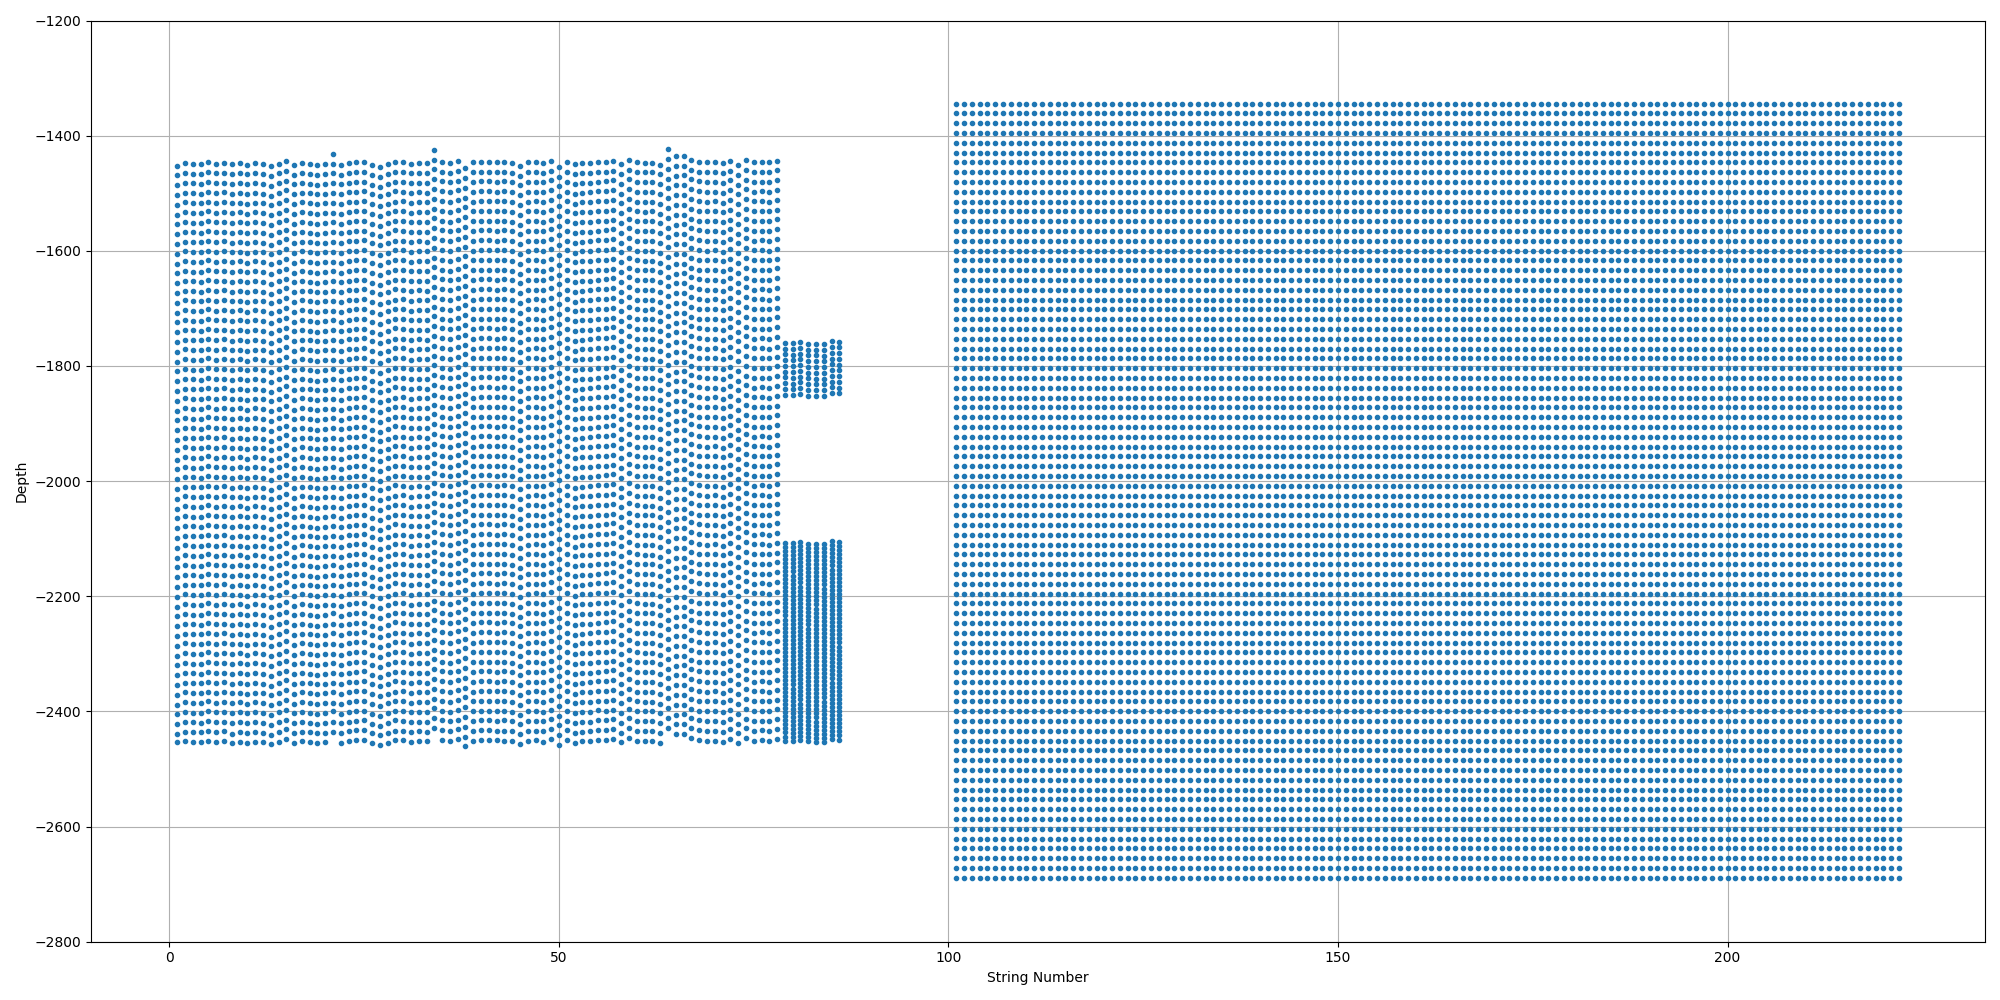
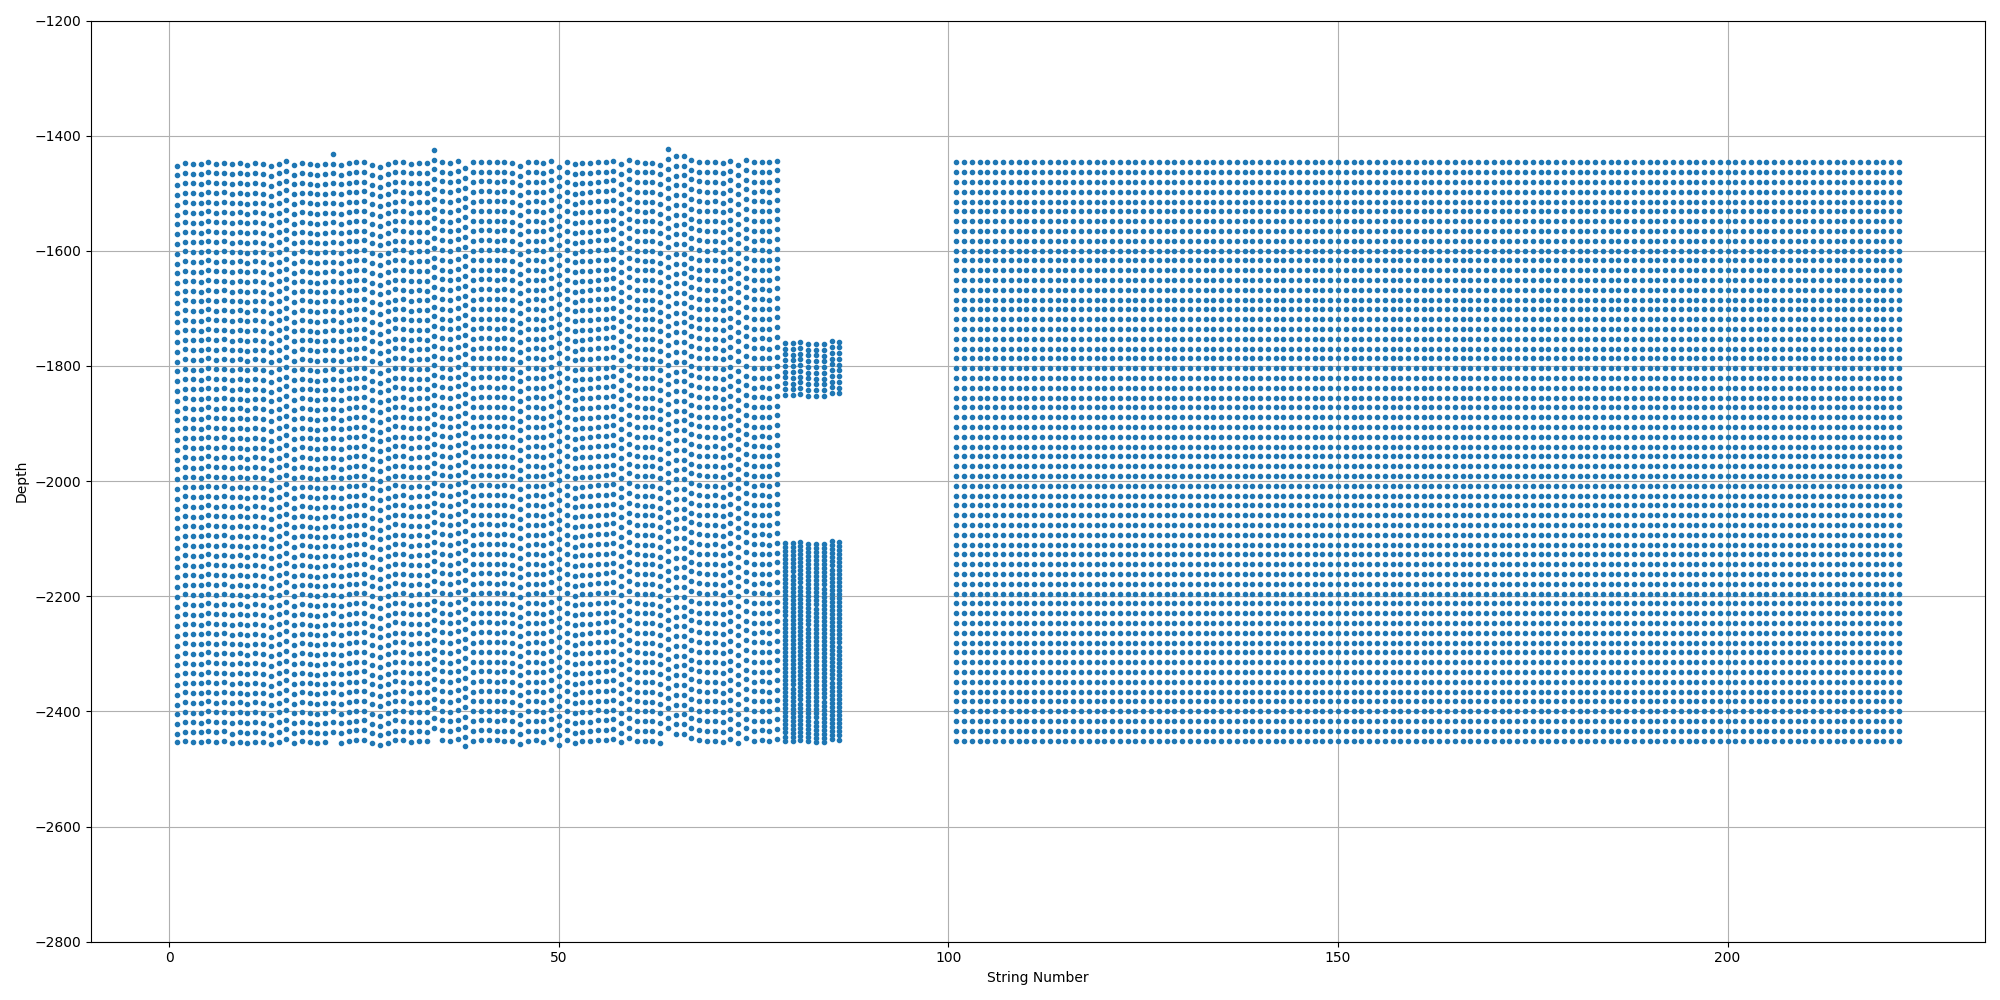
add  a top-down view also

Changed region(s): [[0.465, 0.744, 0.961, 0.899], [0.465, 0.093, 0.961, 0.155]]

diff --git a/analysis/2021.03_inspect_gcd/tools.py b/analysis/2021.03_inspect_gcd/tools.py
@@ -8,11 +8,23 @@ def inspect_G_frame(frame, save_plot=False):
 	om_strings = []
 	om_depths = []
 
+	om_strings_topdown = []
+	om_x = []
+	om_y = []
+
+	finished = []
+
 	for omkey, omgeo in geo:
 		if omgeo.position.z > 1000:
 			continue
 		om_strings.append(omkey.string)
 		om_depths.append(omgeo.position.z)
+
+		if omkey.om ==1:
+			if omkey.string not in finished:
+				finished.append(omkey.string)
+				om_x.append(omgeo.position.x)
+				om_y.append(omgeo.position.y)
 
 	om_strings = np.asarray(om_strings)
 	om_depths = np.asarray(om_depths)
@@ -28,7 +40,8 @@ def inspect_G_frame(frame, save_plot=False):
 	print("Max depth {}".format(np.max(om_depths)))
 
 	if save_plot:
-		# np.savez('dom_loc.npz', om_strings=om_strings, om_depths=om_depths)	
+
+		# top down
 		fig, axs = plt.subplots(1,1,figsize=(20,10))
 		axs.plot(om_strings, om_depths, 'o', markersize=3)
 		axs.set_xlabel('String Number')
@@ -37,4 +50,18 @@ def inspect_G_frame(frame, save_plot=False):
 		axs.set_ylim([-2800, -1200])
 		plt.tight_layout()
 		fig.savefig('om_map.png')
+
+		del fig, axs
+
+		fig, axs = plt.subplots(1,1,figsize=(10,10))
+		axs.plot(om_x[:86], om_y[:86], 'o', markersize=4, label='IceCube')
+		axs.plot(om_x[86:], om_y[86:], 's', markersize=4, label='Gen2')
+		axs.set_xlabel('X [m]')
+		axs.set_ylabel('Y [m]')
+		axs.set_aspect('equal')
+		axs.legend()
+		axs.grid()
+		# axs.set_ylim([-2800, -1200])
+		plt.tight_layout()
+		fig.savefig('top_down.png')
 
